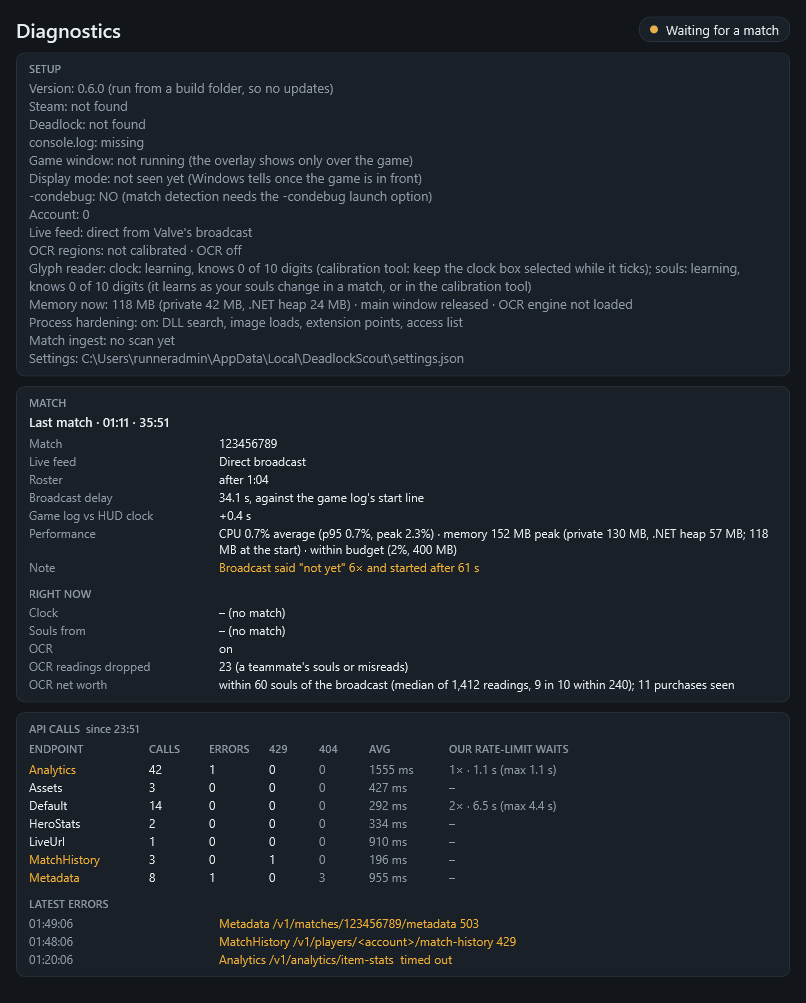
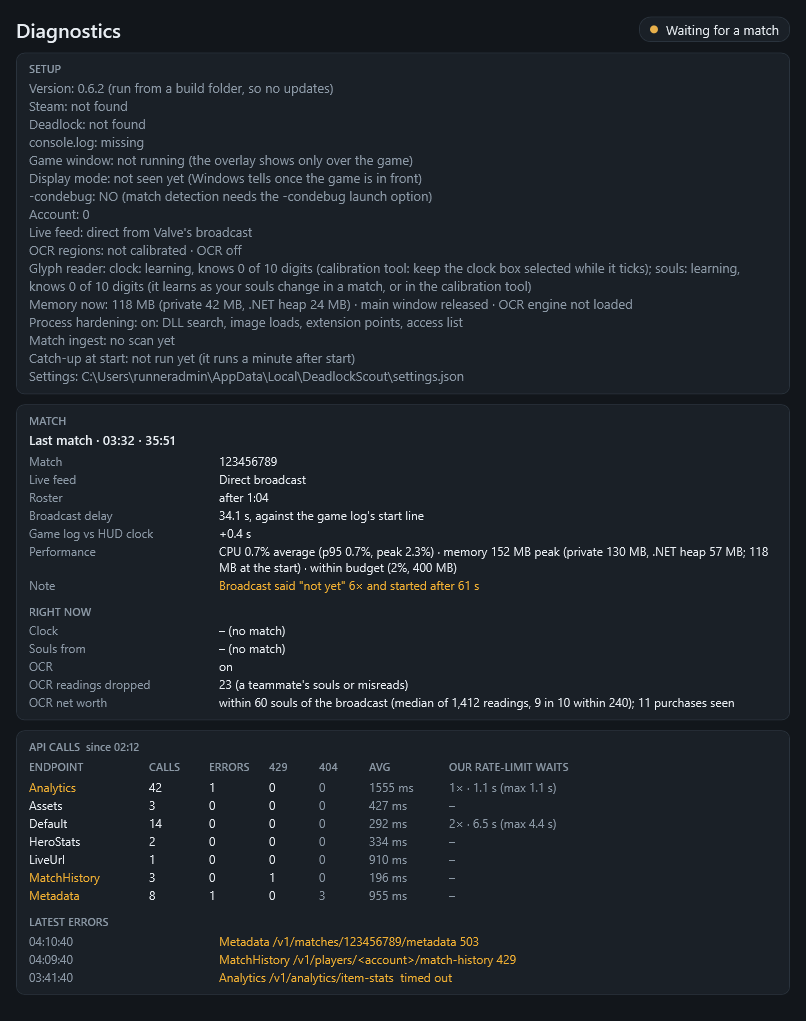
Diagnostics: say what the start-up catch-up found (#172)
* Diagnostics: say what the start-up catch-up found

The owner's 0.6.2 check results could not show whether the catch-up
ran or what it found. Diagnostics and Copy check results gain a
"Catch-up at start" line under check 6: how many finished matches
console.log showed, how many deadlock-api already had, and how many it
was asked to fetch from Steam and has fetched.

- Core/PostMatch/CatchUpRun with its Summary; tested.
- PostMatchCoordinator.LastCatchUp, set by the catch-up as it goes.

Claude-Session: https://claude.ai/code/session_01LSDkBn23Na5vMSKWLtGadZ

* Update app screenshots

---------

diff --git a/tests/DeadlockScout.Tests/Core/CheckResultsTests.cs b/tests/DeadlockScout.Tests/Core/CheckResultsTests.cs
@@ -8,7 +8,7 @@ public class CheckResultsTests
 
     private const string Setup = "Version: 0.3.3\nSteam: found\nGlyph reader: clock: ready · 98% of reads; souls: learning, knows 7 of 10 digits\n"
                                  + "Memory now: 118 MB (private 41 MB) · main window released\nProcess hardening: on: DLL search, image loads, extension points, access list\n"
-                                 + "Match ingest: 1 match sent";
+                                 + "Match ingest: 1 match sent\nCatch-up at start: at 17:08: 1 match finished before the app started, 0 already in deadlock-api, 1 asked for from Steam, 1 fetched";
 
     [Fact]
     public void After_a_match_every_line_the_sheet_asks_for_is_named_by_its_check()
@@ -25,6 +25,7 @@ public class CheckResultsTests
         Assert.StartsWith("DeadlockScout 0.3.3 check results, 2026-11-04 19:00 UTC", text);
         Assert.Contains("Check 2 · memory now: 118 MB (private 41 MB) · main window released", text);
         Assert.Contains("Check 6 · match ingest: 1 match sent", text);
+        Assert.Contains("Check 6 · catch-up at start: at 17:08: 1 match finished before the app started", text);
         Assert.Contains("Check 10 · glyph reader: clock: ready · 98% of reads; souls: learning, knows 7 of 10 digits", text);
         Assert.Contains("Check 10 · OCR net worth: within 60 souls", text);
         Assert.Contains("Check 10 · OCR readings: 12 dropped; clock: 4 put right, 1 dropped", text);
@@ -63,5 +64,19 @@ public class CheckResultsTests
         var none = CheckResults.Format("0.5.0", "Version: 0.5.0", new DiagnosticsLog(T0).Snapshot(), live, T0);
         Assert.Contains("Check 3 · Steam content log (Deadlock): none since the app started", none);
         Assert.Contains("Check 7 · respawns seen: none since the app started", none);
+    }
+
+    [Fact]
+    public void The_catch_up_line_says_what_the_start_up_scan_found()
+    {
+        var at = new DateTimeOffset(2026, 11, 7, 4, 0, 0, TimeSpan.Zero);
+        string Clock() => at.ToLocalTime().ToString("HH:mm");
+        Assert.StartsWith("not run yet", DeadlockScout.Core.PostMatch.CatchUpRun.Summary(null));
+        Assert.Equal($"at {Clock()}: console.log not found", DeadlockScout.Core.PostMatch.CatchUpRun.Summary(new(at, false, 0, 0, 0, 0)));
+        Assert.Equal($"at {Clock()}: no finished match in console.log", DeadlockScout.Core.PostMatch.CatchUpRun.Summary(new(at, true, 0, 0, 0, 0)));
+        Assert.Equal($"at {Clock()}: 2 matches finished before the app started, 2 already in deadlock-api",
+            DeadlockScout.Core.PostMatch.CatchUpRun.Summary(new(at, true, 2, 2, 0, 0)));
+        Assert.Equal($"at {Clock()}: 1 match finished before the app started, 0 already in deadlock-api, 1 asked for from Steam, 0 fetched",
+            DeadlockScout.Core.PostMatch.CatchUpRun.Summary(new(at, true, 1, 0, 1, 0)));
     }
 }

diff --git a/src/DeadlockScout.App/Services/PostMatchCoordinator.cs b/src/DeadlockScout.App/Services/PostMatchCoordinator.cs
@@ -33,6 +33,8 @@ public sealed class PostMatchCoordinator : BackgroundService
     /// </summary>
     public const int MaxCatchUp = 2;
     private static readonly TimeSpan CatchUpRetry = TimeSpan.FromHours(1);
+    /// <summary>What the start-up catch-up found, for Diagnostics; null until it has run.</summary>
+    public static CatchUpRun? LastCatchUp { get; private set; }
     private static readonly TimeSpan IngestEvery = TimeSpan.FromHours(1);
     private static readonly TimeSpan StartupReportMaxAge = TimeSpan.FromHours(24);
 
@@ -130,14 +132,22 @@ public sealed class PostMatchCoordinator : BackgroundService
     {
         try
         {
-            if (_paths.ConsoleLogPath is not { } path || !System.IO.File.Exists(path) || _paths.AccountId == 0) return;
+            if (_paths.AccountId == 0) return;
+            if (_paths.ConsoleLogPath is not { } path || !System.IO.File.Exists(path))
+            {
+                LastCatchUp = new CatchUpRun(DateTimeOffset.UtcNow, false, 0, 0, 0, 0);
+                return;
+            }
             var missed = new List<long>();
-            foreach (var id in ConsoleLogTailer.FinishedMatchesIn(path).Reverse().Take(MaxCatchUp))
+            var finished = ConsoleLogTailer.FinishedMatchesIn(path).Reverse().Take(MaxCatchUp).ToList();
+            foreach (var id in finished)
             {
                 await _gate.WaitAsync(RequestPriority.Background, ct).ConfigureAwait(false);
                 if (await QuietReportAsync(id, askSteam: false, ct).ConfigureAwait(false)) continue; // already processed
                 missed.Add(id);
             }
+            int asked = missed.Count;
+            LastCatchUp = new CatchUpRun(DateTimeOffset.UtcNow, true, finished.Count, finished.Count - asked, asked, 0);
             if (missed.Count == 0) return;
             _log.LogInformation("console.log shows {Count} finished match(es) deadlock-api does not have; asking it to fetch them from Steam", missed.Count);
             for (int round = 0; round < 2 && missed.Count > 0; round++)
@@ -146,7 +156,11 @@ public sealed class PostMatchCoordinator : BackgroundService
                 foreach (var id in missed.ToList())
                 {
                     await _gate.WaitAsync(RequestPriority.Background, ct).ConfigureAwait(false); // never during a match
-                    if (await QuietReportAsync(id, askSteam: true, ct).ConfigureAwait(false)) missed.Remove(id);
+                    if (await QuietReportAsync(id, askSteam: true, ct).ConfigureAwait(false))
+                    {
+                        missed.Remove(id);
+                        LastCatchUp = LastCatchUp! with { At = DateTimeOffset.UtcNow, Fetched = asked - missed.Count };
+                    }
                 }
             }
             if (missed.Count > 0)

diff --git a/src/DeadlockScout.App/Services/AppShell.cs b/src/DeadlockScout.App/Services/AppShell.cs
@@ -194,7 +194,7 @@ public sealed class AppShell
         var game = _paths.DeadlockPath ?? "not found";
         var log = _paths.ConsoleLogPath;
         string condebug = _paths.HasCondebug ? "yes" : "NO (match detection needs the -condebug launch option)";
-        _state.Status.Detection = $"Version: {VersionLine()}\nSteam: {steam}\nDeadlock: {game}\nconsole.log: {(log is not null && File.Exists(log) ? "present" : "missing")}\nGame window: {GameWindowStatus()}\nDisplay mode: {(_state.DisplaySeen is { Length: > 0 } seen ? seen : "not seen yet (Windows tells once the game is in front)")}\n-condebug: {condebug}\nAccount: {_paths.AccountId}\nLive feed: {_settings.CurrentValue.Api.LiveSource switch { LiveSource.SelfHosted => "self-hosted at " + _settings.CurrentValue.Api.LiveUrl, LiveSource.Direct => "direct from Valve's broadcast", _ => "hosted (api.deadlock-api.com)" }}\nOCR regions: {OcrRegionSummary()}\nMemory now: {MemoryNow()}\nProcess hardening: {Interop.ProcessHardening.Status}\nMatch ingest: {SaltIngest.Summary(_ingest.LastRun)}\nSettings: {_settings.Path}";
+        _state.Status.Detection = $"Version: {VersionLine()}\nSteam: {steam}\nDeadlock: {game}\nconsole.log: {(log is not null && File.Exists(log) ? "present" : "missing")}\nGame window: {GameWindowStatus()}\nDisplay mode: {(_state.DisplaySeen is { Length: > 0 } seen ? seen : "not seen yet (Windows tells once the game is in front)")}\n-condebug: {condebug}\nAccount: {_paths.AccountId}\nLive feed: {_settings.CurrentValue.Api.LiveSource switch { LiveSource.SelfHosted => "self-hosted at " + _settings.CurrentValue.Api.LiveUrl, LiveSource.Direct => "direct from Valve's broadcast", _ => "hosted (api.deadlock-api.com)" }}\nOCR regions: {OcrRegionSummary()}\nMemory now: {MemoryNow()}\nProcess hardening: {Interop.ProcessHardening.Status}\nMatch ingest: {SaltIngest.Summary(_ingest.LastRun)}\nCatch-up at start: {CatchUpRun.Summary(PostMatchCoordinator.LastCatchUp)}\nSettings: {_settings.Path}";
         if (_settings.LastError is { } err) _state.Status.Warning = err;
     }
 

diff --git a/src/DeadlockScout.Core/PostMatch/CatchUpRun.cs b/src/DeadlockScout.Core/PostMatch/CatchUpRun.cs
@@ -1,0 +1,22 @@
+namespace DeadlockScout.Core.PostMatch;
+
+/// <summary>
+/// What the start-up catch-up found (0.6.2): the matches the game's console.log showed you finished before the app
+/// started (the last few, see PostMatchCoordinator.MaxCatchUp), how many deadlock-api already had, how many it was asked
+/// to fetch from Steam, and how many it has fetched so far. For Diagnostics and Copy check results (check 6).
+/// </summary>
+public sealed record CatchUpRun(DateTimeOffset At, bool LogFound, int Finished, int AlreadyIn, int Asked, int Fetched)
+{
+    /// <summary>The Diagnostics line.</summary>
+    public static string Summary(CatchUpRun? run)
+    {
+        if (run is null) return "not run yet (it runs a minute after start)";
+        var at = $"at {run.At.ToLocalTime():HH:mm}";
+        if (!run.LogFound) return $"{at}: console.log not found";
+        if (run.Finished == 0) return $"{at}: no finished match in console.log";
+        var line = $"{at}: {Matches(run.Finished)} finished before the app started, {run.AlreadyIn} already in deadlock-api";
+        return run.Asked == 0 ? line : line + $", {run.Asked} asked for from Steam, {run.Fetched} fetched";
+    }
+
+    private static string Matches(int n) => n == 1 ? "1 match" : $"{n} matches";
+}

diff --git a/src/DeadlockScout.Core/Diagnostics/CheckResults.cs b/src/DeadlockScout.Core/Diagnostics/CheckResults.cs
@@ -27,6 +27,7 @@ public static class CheckResults
 
         Line("Check 2", "memory now", Setup("Memory now"));
         Line("Check 6", "match ingest", Setup("Match ingest"));
+        Line("Check 6", "catch-up at start", Setup("Catch-up at start"));
         Line("Check 10", "glyph reader", Setup("Glyph reader"));
         Line("Check 10", "OCR net worth", live.OcrNetWorth ?? "no match compared with the broadcast yet");
         Line("Check 10", "OCR readings", $"{live.OcrDropped.ToString(CultureInfo.InvariantCulture)} dropped; clock: "

diff --git a/docs/verification/checks-0.2.md b/docs/verification/checks-0.2.md
@@ -133,8 +133,9 @@ in one block, scrubbed; paste that instead of copying them one by one. Roughly i
     enemy hero in the match history's Matchup notes card, then face that hero: the lane card shows it in gold.
     *Send:* whether each worked, and whether the clicked net worth matched the post-match numbers.
     0.6.2: play a match with DeadlockScout closed, then start it: within an hour the match should be in the match
-    history (the log says "console.log shows 1 finished match(es) deadlock-api does not have" when it had to ask).
-    *Send:* whether it showed up, and that log line if it did not.
+    history. Copy check results has a "Check 6 · catch-up at start" line (from 0.6.3) saying what it found: how many
+    finished matches console.log showed, how many deadlock-api already had, and how many it asked for and fetched.
+    *Send:* whether the match showed up, and that line.
 
 ## Before 0.3 is released
 
